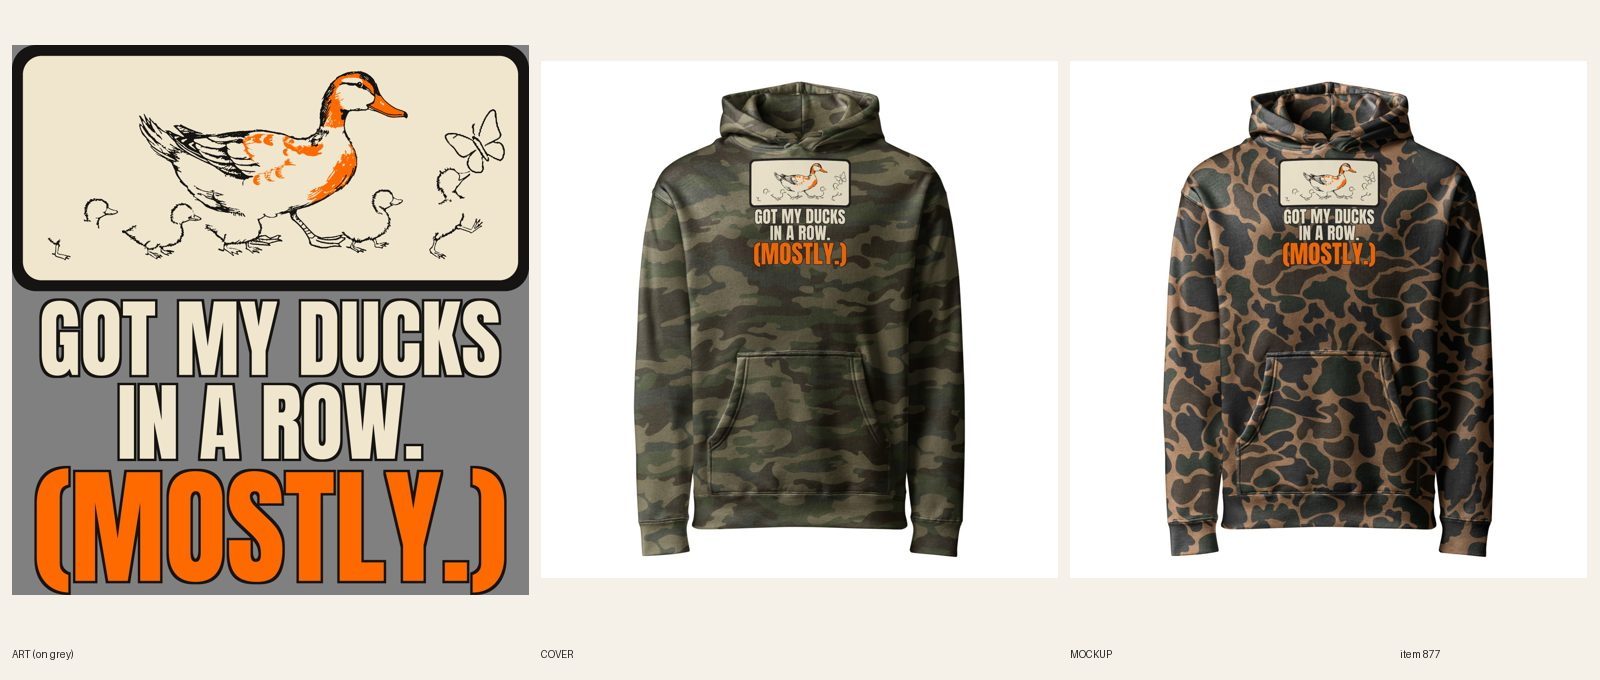
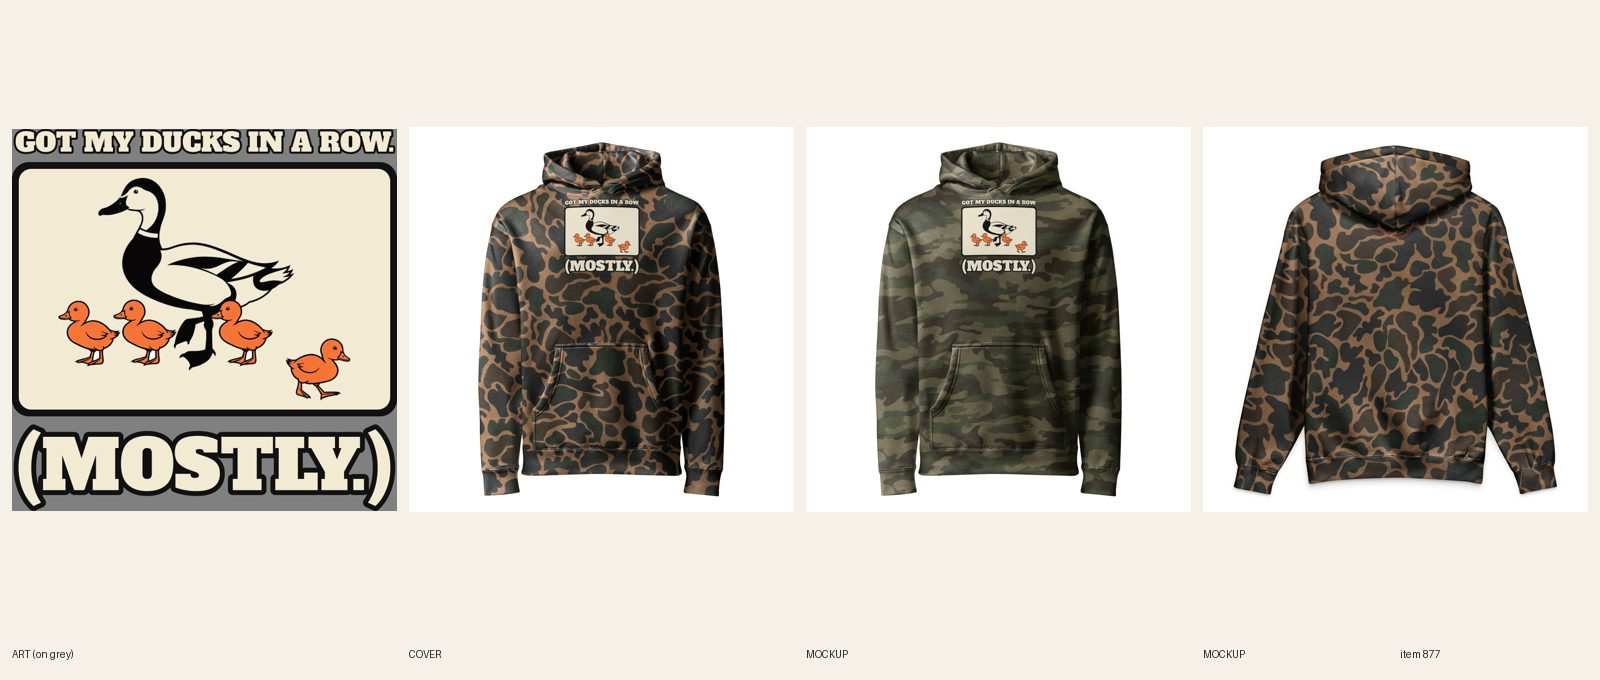
[B] review 877 Ducks in a Row camo hoodie

diff --git a/docs/pipeline/877-camo-redo-ducks-in-a-row.md b/docs/pipeline/877-camo-redo-ducks-in-a-row.md
@@ -1,4 +1,4 @@
-status: REDO
+status: REVIEW
 lane: B
 type: redo
 id: 877
@@ -23,3 +23,4 @@ push: camo
 - 2026-10-21 09:45 UTC director: brief written, READY (camo redo, lane B, push: camo; graded from docs/review/299.jpg).
 - 2026-10-21 10:40 UTC [B]: REDO to the R11.13 patch standard, IN PLACE on the live product (same handle, URL, collections, stays ACTIVE). Print = the old live art re-inked by designs/camo_patch.py (print-prep only; fal wallet exhausted): mother duck and ducklings (ducklings are thin line art after the 3-ink conversion), 3 solid inks (black, bone, blaze orange) on ONE bone patch with a ~0.2 in black outline; baked lettering cropped off; lettering GOT MY DUCKS / IN A ROW. (bone, 2 lines) / (MOSTLY.) (blaze orange) in Anton with a dark keyline, widths (7h) 2889 / 2951 px (punch 102%). FW 1500 TOP 0. The thin script (mostly) is gone: (MOSTLY.) is heavy caps and the widest line. R7.7: Duck Camo + Forest Camo x XS-3XL = 14/14 synced on default file 1091024970, back logo 1080398177 on 14/14. Mockups remade, media replaced and attached, copy rewritten against the new art (no cream backing line); docs/review/877.jpg shows Forest + Duck. Cohesion audit --handle PASS (0 warn).
 - 2026-10-21 10:40 UTC director: REDO. 1. R5.3.4: the joke names the ducklings, but after the 3-ink conversion they are hairline sketches that vanish on both camo mockups at phone size; only the mother duck reads. Thicken the duckling linework (dilate to the mother's stroke weight, fill bodies bone-on-black like her) so a row of 4-5 ducklings reads, one of them clearly out of line. 2. R5.3.4: drop the stray butterfly at the right edge (it reads as a smudge and has nothing to do with the line). Patch, lettering and (MOSTLY.) are good; keep them. Re-sync, new mockups and sheet. $0 fal.
+- 2026-10-21 14:50 UTC [B]: REDO 2 done IN PLACE (fal: one Recraft flat call, $0.04, first try). Director note 1: new art with a chunky black-and-white mother mallard and THREE thick blaze-orange ducklings (black outlines, same weight as the mother) in a row behind her, plus a FOURTH duckling cut out, mirrored and moved lower and right so it walks off the other way (md5 differs from the raw Recraft file; viewed: it is clearly out of line). Note 2: no butterfly (the prompt forbids it and none is drawn). 3 inks on ONE bone patch with ~0.2 in black outline (scripts/b-camo-lockup.py --top): GOT MY DUCKS IN A ROW. above the patch, (MOSTLY.) below, Alfa Slab bone with dark keyline. Widths (7h) 3371 / 3371 px = 100% (the earlier two-line split of the headline was merged into one line so both lines run the full print width). Subject 2579 of 3400 px = 75% (7l); canvas 3400x3371. FW 1500 TOP 0. R7.7: 14/14 on 1091133747, back logo 1080398177 on 14/14 (Duck Camo + Forest Camo x XS-3XL). Mockups remade and replaced in place, phone-size read OK (ducklings read as a row of orange ducks on Duck Camo). Copy rewritten against the new art (three ducklings in the row, one walking off, no butterfly); meta 154 chars; title unchanged. Handle added to retired-covers.json. Cohesion audit --handle PASS. docs/review/877.jpg shows Duck Camo, Forest Camo, back.

diff --git a/docs/intake-log.md b/docs/intake-log.md
@@ -1,4 +1,5 @@
 RUNNING lane B since 2026-10-21 13:35 UTC
+2026-10-21 14:50 UTC — [B] REVIEW #877 Women's Hunting Ducks in a Row Camo Hoodie (REDO 2: thick orange ducklings, one walking off, no butterfly; 14/14 on 1091133747; punch 100%; subject 75%). fal $0.04.
 2026-10-21 14:20 UTC — [B] REVIEW #840 Men's Hunting Quack of Dawn Camo Hoodie (redo in place, flat mallards + sun on bone patch, 14/14 on 1091130537, subject 77% of lockup). fal $0.04.
 2026-10-21 13:55 UTC — [B] REVIEW #866 Men's Hunting No Deer Today Camo Hoodie (REDO 2, in place, sleeping hunter, no deer, 14/14 on 1091127902, punch 100% of headline). fal $0.04.
 2026-10-21 13:34 UTC — [D] Director run: inbox nothing new (still waiting on Sam for 'yes cap/keep cap', the #457/#458 Hanukkah line and a fal top-up). 6 LIVE (the cap, zip first, held order): #850 Hot Mess Express, #849 Former Life of the Party, #860 Low Battery, #861 Still Loading, #862 Catch and Release, #864 Kaiju Naps zips (already ACTIVE on Online Store, Headless, Google & YouTube; audit --handle PASS 0 warn; pages 200). Reviewed 20 sheets + 1 article: approved and held 14 (#905 #906 round 2, zip twins #909 #911 #912 #915 #917 #918 #919 #920 #921 #922 #923, AOP pilot #836 Hide & Seek Champion; director fixed #836's title and added camo-zip-up-hoodies). REDO 5: #910 and #916 and #914 (chest marks read as a robot, a teddy bear, a snail), #827 golf AOP (Sam's hidden balls and labels missing, back lockup 65% of width vs 80%). Article #930 gym gifts for men approved (count fixed: said five, listed four; build passes). Recurring (5th chest-mark misread): builder 7t now defaults to stitched words when the subject has no one-outline shape. #851 Essentials call made: option A (embroidered chest only on Lane Seven #943, \$49.99 flat), unparked; R12.1 line added; #852-#858 build after it. Briefs (\$0 fal): lane C zip twins #931-#942 of 12 A-grade designs without a zip (Twelve Labors, Bison Traffic, Cold Rink, Won't Make You One, Step Over It, Keep Walking, Neighbors, Mile One, Under Protest, Smaller at the Farm, Expert in Après, Partner Says It Was Out); keyword-gap.py run, heads owned, R11.12 waiver; registry 1086-1100. READY: A 13, B 12, C 12, E 13 (+#851). Held at REVIEW next, in order: #872 #887-#892 #896-#899, then #863 #871 #886 #893 #894 #895 #904 #907 #908 #913, then this run's 14, then the tee redos. No Telegram (midday digest already sent at 13:05; nothing new needs Sam). Lock released.
